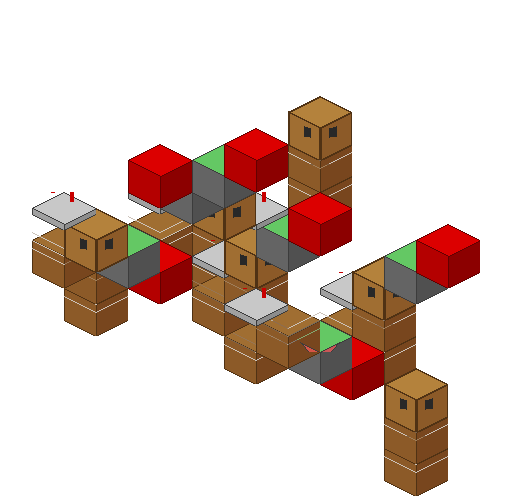
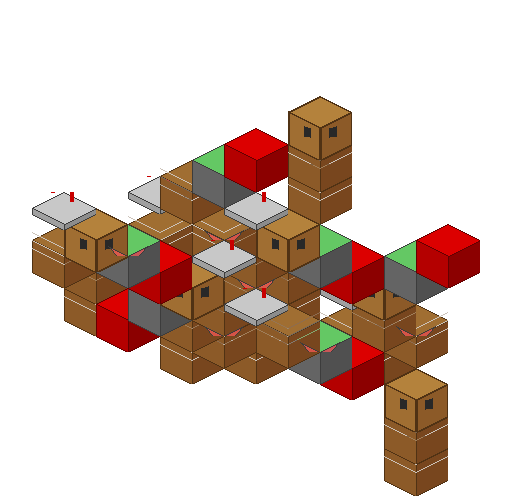
Fix NBT export crash and refactor branch shape logic
- Updated StructureGenerator's export_monolithic and export_multipart to properly instantiate CustomNBT objects, fixing the AttributeError crash during NBT generation.
- Renamed 'is_symmetric' variable to 'branch_shape' (I vs L) across app.py, StructureGenerator, Layout1, and Layout2 to better reflect the layout structure behavior.
- Adapted app.py testing tab and interface to support and visualize the new branch shape toggle logic natively.

diff --git a/app.py b/app.py
@@ -126,6 +126,7 @@ with tab2:
             f.write(uploaded_file_2.getbuffer())
 
         layout_type = st.selectbox("Select Structure Layout:", ["Layout2 (Compact Serpentine)", "Layout1 (Minecart)"])
+        branch_shape = st.selectbox("Forme des branches", ["I", "L"], help="Forme 'I' place des notes de chaque côté. Forme 'L' place les notes d'un seul côté.")
         export_mode = st.selectbox("Generation Mode:", ["Single Monolithic File", "Dynamic Multi-Part (Structure Blocks)"])
 
         st.subheader("Decoration Palette")
@@ -145,7 +146,8 @@ with tab2:
         palettes = {
             "floor": selected_floor,
             "flowers": selected_flowers,
-            "ceiling": selected_ceiling
+            "ceiling": selected_ceiling,
+            "branch_shape": branch_shape
         }
 
         if st.button("Generate NBT"):
@@ -251,78 +253,59 @@ with tab3:
         def make_notes(count):
             return [Note(random.randint(0, 24), random.randint(0, 5)) for _ in range(count)]
 
-        # Test 1: Dense Layout1
+        # Test 1: Layout 1 (Shape I)
         nbt1 = CustomNBT()
         l1 = Layout1Brick()
-        l1.build(notes_integer=make_notes(10), notes_half=make_notes(10))
+        l1.build(notes_integer=make_notes(10), notes_half=make_notes(10), branch_shape='I')
         l1.clean("minecraft:stone")
         l1.write_nbt(nbt1)
-        nbt1.write_file("output/debug/debug_layout1_dense.nbt")
+        nbt1.write_file("output/debug/debug_layout1_shape_I.nbt")
         if CAN_VISUALIZE:
-            render_data_to_image(l1.blocks, nbt1.nbtfile['palette'], "Layout 1 Dense", "output/debug_images/debug_layout1_dense.png")
-            export_topdown_grid(l1.blocks, nbt1.nbtfile['palette'], "Layout 1 Dense Grid", "output/debug_images/debug_layout1_dense_grid.csv", "output/debug_images/debug_layout1_dense_grid.png")
-        spawner_nbt.add_structure_block([test_index * 15, 0, 0], "debug_layout1_dense")
+            render_data_to_image(l1.blocks, nbt1.nbtfile['palette'], "Layout 1 (Shape I)", "output/debug_images/debug_layout1_shape_I.png")
+            export_topdown_grid(l1.blocks, nbt1.nbtfile['palette'], "Layout 1 (Shape I) Grid", "output/debug_images/debug_layout1_shape_I_grid.csv", "output/debug_images/debug_layout1_shape_I_grid.png")
+        spawner_nbt.add_structure_block([test_index * 15, 0, 0], "debug_layout1_shape_I")
         test_index += 1
 
-        # Test 2: Dense Layout2 (Base)
+        # Test 2: Layout 1 (Shape L)
         nbt2 = CustomNBT()
-        l2 = Layout2Brick()
-        l2.build(notes_integer=make_notes(10), notes_half=make_notes(10))
+        l2 = Layout1Brick()
+        l2.build(notes_integer=make_notes(10), notes_half=make_notes(10), branch_shape='L')
         l2.clean("minecraft:stone")
         l2.write_nbt(nbt2)
-        nbt2.write_file("output/debug/debug_layout2_dense.nbt")
+        nbt2.write_file("output/debug/debug_layout1_shape_L.nbt")
         if CAN_VISUALIZE:
-            render_data_to_image(l2.blocks, nbt2.nbtfile['palette'], "Layout 2 Dense", "output/debug_images/debug_layout2_dense.png")
-            export_topdown_grid(l2.blocks, nbt2.nbtfile['palette'], "Layout 2 Dense Grid", "output/debug_images/debug_layout2_dense_grid.csv", "output/debug_images/debug_layout2_dense_grid.png")
-        spawner_nbt.add_structure_block([test_index * 15, 0, 0], "debug_layout2_dense")
+            render_data_to_image(l2.blocks, nbt2.nbtfile['palette'], "Layout 1 (Shape L)", "output/debug_images/debug_layout1_shape_L.png")
+            export_topdown_grid(l2.blocks, nbt2.nbtfile['palette'], "Layout 1 (Shape L) Grid", "output/debug_images/debug_layout1_shape_L_grid.csv", "output/debug_images/debug_layout1_shape_L_grid.png")
+        spawner_nbt.add_structure_block([test_index * 15, 0, 0], "debug_layout1_shape_L")
         test_index += 1
 
-        # Test 3: Dense Layout2 (Symmetric)
-        # Symmetry is now an after-effect, so we just build and then rotate/flip manually
-        # to simulate the "Symmetric" version
+        # Test 3: Layout 2 (Shape I)
         nbt3 = CustomNBT()
         l3 = Layout2Brick()
-        l3.build(notes_integer=make_notes(10), notes_half=make_notes(10))
-        l3.flip()
+        l3.build(notes_integer=make_notes(10), notes_half=make_notes(10), branch_shape='I')
         l3.clean("minecraft:stone")
         l3.write_nbt(nbt3)
-        nbt3.write_file("output/debug/debug_layout2_dense_sym.nbt")
+        nbt3.write_file("output/debug/debug_layout2_shape_I.nbt")
         if CAN_VISUALIZE:
-            render_data_to_image(l3.blocks, nbt3.nbtfile['palette'], "Layout 2 Dense (Symmetric)", "output/debug_images/debug_layout2_dense_sym.png")
-            export_topdown_grid(l3.blocks, nbt3.nbtfile['palette'], "Layout 2 Dense Sym Grid", "output/debug_images/debug_layout2_dense_sym_grid.csv", "output/debug_images/debug_layout2_dense_sym_grid.png")
-        spawner_nbt.add_structure_block([test_index * 15, 0, 0], "debug_layout2_dense_sym")
+            render_data_to_image(l3.blocks, nbt3.nbtfile['palette'], "Layout 2 (Shape I)", "output/debug_images/debug_layout2_shape_I.png")
+            export_topdown_grid(l3.blocks, nbt3.nbtfile['palette'], "Layout 2 (Shape I) Grid", "output/debug_images/debug_layout2_shape_I_grid.csv", "output/debug_images/debug_layout2_shape_I_grid.png")
+        spawner_nbt.add_structure_block([test_index * 15, 0, 0], "debug_layout2_shape_I")
         test_index += 1
 
-        # Test 4: Layout2 Flipped
+        # Test 4: Layout 2 (Shape L)
         nbt4 = CustomNBT()
         l4 = Layout2Brick()
-        l4.build(notes_integer=make_notes(10), notes_half=make_notes(10))
-        l4.flip()
+        l4.build(notes_integer=make_notes(10), notes_half=make_notes(10), branch_shape='L')
         l4.clean("minecraft:stone")
         l4.write_nbt(nbt4)
-        nbt4.write_file("output/debug/debug_layout2_flipped.nbt")
+        nbt4.write_file("output/debug/debug_layout2_shape_L.nbt")
         if CAN_VISUALIZE:
-            render_data_to_image(l4.blocks, nbt4.nbtfile['palette'], "Layout 2 Flipped", "output/debug_images/debug_layout2_flipped.png")
-            export_topdown_grid(l4.blocks, nbt4.nbtfile['palette'], "Layout 2 Flipped Grid", "output/debug_images/debug_layout2_flipped_grid.csv", "output/debug_images/debug_layout2_flipped_grid.png")
-        spawner_nbt.add_structure_block([test_index * 15, 0, 0], "debug_layout2_flipped")
+            render_data_to_image(l4.blocks, nbt4.nbtfile['palette'], "Layout 2 (Shape L)", "output/debug_images/debug_layout2_shape_L.png")
+            export_topdown_grid(l4.blocks, nbt4.nbtfile['palette'], "Layout 2 (Shape L) Grid", "output/debug_images/debug_layout2_shape_L_grid.csv", "output/debug_images/debug_layout2_shape_L_grid.png")
+        spawner_nbt.add_structure_block([test_index * 15, 0, 0], "debug_layout2_shape_L")
         test_index += 1
 
-        # Test 5-8: Layout2 Rotations
-        for rot in range(1, 4):
-            nbt_rot = CustomNBT()
-            l_rot = Layout2Brick()
-            l_rot.build(notes_integer=make_notes(10), notes_half=make_notes(10))
-            l_rot.rotate(rot)
-            l_rot.clean("minecraft:stone")
-            l_rot.write_nbt(nbt_rot)
-            nbt_rot.write_file(f"output/debug/debug_layout2_rot{rot}.nbt")
-            if CAN_VISUALIZE:
-                render_data_to_image(l_rot.blocks, nbt_rot.nbtfile['palette'], f"Layout 2 Rotation {rot}", f"output/debug_images/debug_layout2_rot{rot}.png")
-                export_topdown_grid(l_rot.blocks, nbt_rot.nbtfile['palette'], f"Layout 2 Rot {rot} Grid", f"output/debug_images/debug_layout2_rot{rot}_grid.csv", f"output/debug_images/debug_layout2_rot{rot}_grid.png")
-            spawner_nbt.add_structure_block([test_index * 15, 0, 0], f"debug_layout2_rot{rot}")
-            test_index += 1
-
-        # Test 9: Complete Serpentine Assembly
+        # Test 5: Complete Serpentine Assembly
         # Creates a 10-tick sequence to test StructureGenerator's automatic snake routing
         data_seq = {
             'tick': list(range(0, 20, 2)),
@@ -332,7 +315,7 @@ with tab3:
         df_seq = pd.DataFrame(data_seq).set_index('tick')
 
         nbt_seq = CustomNBT()
-        gen_seq = StructureGenerator(df_seq, layout_type="Layout2")
+        gen_seq = StructureGenerator(df_seq, layout_type="Layout2", palettes={"branch_shape": "L"})
         gen_seq.generate_blocks()
 
         # We manually clean here with a stone block fallback to ensure tests are stable
@@ -350,4 +333,4 @@ with tab3:
         spawner_nbt.add_block([-1, 1, 0], index_button)
         spawner_nbt.write_file("output/debug/debug_spawner.nbt")
 
-        st.success(f"Successfully generated 9 complex test bricks and 1 assembly sequence in `output/debug/`")
+        st.success(f"Successfully generated 4 shape test bricks and 1 assembly sequence in `output/debug/`")

diff --git a/core/Layout2.py b/core/Layout2.py
@@ -10,7 +10,7 @@ class Layout2Brick(LayoutBase):
     def __init__(self, x=0, y=0, z=0, facing='south', direction=-1):
         super().__init__(x=x, y=y, z=z, facing=facing, direction=direction)
         
-    def build(self, notes_integer=None, notes_half=None, delay=1, is_symmetric=True):
+    def build(self, notes_integer=None, notes_half=None, delay=1, branch_shape='I'):
         """
         Adds a segment of the song (one or more ticks) to the layout.
 
@@ -33,20 +33,18 @@ class Layout2Brick(LayoutBase):
         # Repeater connecting to the previous block (now positioned within the brick_int itself)
         brick_int.add_block(0, 0, 0, "minecraft:repeater", {"facing": "west", "delay": delay}, tick=self.tick, needs_down=True)
 
+        # The connecting redstone wire for the serpentine pattern
+        # Since the serpentine ALWAYS connects to the back via [1,0,-1], we MUST put a redstone wire here
+        # or the repeater won't turn the corner.
+        brick_int.add_block(1, 0, -1, "minecraft:redstone_wire", tick=self.tick, needs_down=True)
+
         if integer_note_count == 0:
             brick_int.add_block(1, 0, 0, "minecraft:oak_planks")
         else:
             self.add_note_to_brick(brick_int, 1, 0, 0, notes_integer[0])
 
-        if integer_note_count > 1 or half_note_count > 0:
-            # We add redstone to propagate signal sideways
-            if is_symmetric:
-                brick_int.add_block(1, 0, -1, "minecraft:redstone_wire", tick=self.tick, needs_down=True)
-            else:
-                brick_int.add_block(1, 0, 1, "minecraft:redstone_wire", tick=self.tick, needs_down=True)
-
-        # Redstone side notes
-        if is_symmetric:
+        if branch_shape == 'I':
+            # "I" Shape (Symmetrical): Notes placed on both +z and -z
             if half_note_count == 0 and integer_note_count <= 5:
                 if integer_note_count >= 2:
                     self.add_note_to_brick(brick_int, 1, 0, 1, notes_integer[1])
@@ -70,6 +68,10 @@ class Layout2Brick(LayoutBase):
                 if integer_note_count >= 3:
                     self.add_note_to_brick(brick_int, 0, -1, -1, notes_integer[2])
         else:
+            # "L" Shape: Notes placed ONLY on the +z side
+            if integer_note_count > 1 or half_note_count > 0:
+                brick_int.add_block(1, 0, 1, "minecraft:redstone_wire", tick=self.tick, needs_down=True)
+
             if integer_note_count >= 2:
                 self.add_note_to_brick(brick_int, 2, 0, 0, notes_integer[1])
             if integer_note_count >= 3:
@@ -78,7 +80,6 @@ class Layout2Brick(LayoutBase):
                 self.add_note_to_brick(brick_int, 2, -1, 1, notes_integer[3])
 
         # Piston side logic (half ticks) - rotated parts
-        # If is_symmetric is False, we flip the internal logic of half_notes so it builds on the +z side
         sub_brick_half = Brick()
 
         if notes_half is not None:
@@ -140,7 +141,7 @@ class Layout2Brick(LayoutBase):
 
         sub_brick_half.translate(1, 0, 0)
 
-        if not is_symmetric:
+        if branch_shape == 'L':
             sub_brick_half.flip(axis='z')
 
         brick_half.add_data(sub_brick_half)
@@ -152,9 +153,9 @@ class Layout2Track(Brick):
     """
     Manages a sequence of Layout2Bricks, assembling them into a continuous serpentine layout.
     """
-    def __init__(self, is_symmetric=True):
+    def __init__(self, branch_shape='I'):
         super().__init__()
-        self.is_symmetric = is_symmetric
+        self.branch_shape = branch_shape
 
     def build_sequence(self, df_notes):
         """Processes notes and maps them to a serpentine sequence of bricks."""
@@ -178,7 +179,7 @@ class Layout2Track(Brick):
 
             # Serpentine logic
             # Repeater is now built-in inside brick_int based on the delay provided
-            brick.build(notes_entier, notes_demi, delay=actual_delay, is_symmetric=self.is_symmetric)
+            brick.build(notes_entier, notes_demi, delay=actual_delay, branch_shape=self.branch_shape)
 
             if direction % 4 == 0:
                 pos[0] += 1
@@ -189,12 +190,10 @@ class Layout2Track(Brick):
                 pos[0] += 2
                 pos[2] += -1
             elif direction % 4 == 2:
-                brick.flip(axis='x')
-                brick.flip(axis='z')
+                brick.flip(axis='z') # Just flip z, do not flip x (original behavior)
                 pos[0] += 1
                 pos[2] += 2
             else:
-                brick.flip(axis='x')
                 brick.rotate(1)
                 pos[0] += 2
                 pos[2] += 1

diff --git a/core/Layout1.py b/core/Layout1.py
@@ -29,7 +29,7 @@ class Layout1Brick(LayoutBase):
     def __init__(self, start_x=0, start_y=0, start_z=0):
         super().__init__(x=start_x, y=start_y, z=start_z)
 
-    def build(self, notes_integer=None, notes_half=None, delay=1, is_symmetric=True):
+    def build(self, notes_integer=None, notes_half=None, delay=1, branch_shape='I'):
         """
         Builds a single tick's worth of blocks for the straight layout.
         Notes branch off sideways from the central block.
@@ -50,13 +50,13 @@ class Layout1Brick(LayoutBase):
         brick_int.add_block(1, 0, 0, "minecraft:repeater", {"facing": "west", "delay": delay}, tick=self.tick, needs_down=True)
 
         # Place notes branching off to the sides (z-axis)
-        if is_symmetric:
+        if branch_shape == 'I':
             for i in range(integer_note_count):
                 side = 1 if i % 2 == 0 else -1
                 depth = (i // 2) + 1
                 brick_int.add_block(0, 0, depth * side, "minecraft:redstone_wire", tick=self.tick, needs_down=True)
                 self.add_note_to_brick(brick_int, -1, 0, depth * side, notes_integer[i])
-        else:
+        else: # 'L' shape
             for i in range(integer_note_count):
                 z_pos = i + 1
                 brick_int.add_block(0, 0, z_pos, "minecraft:redstone_wire", tick=self.tick, needs_down=True)
@@ -68,13 +68,13 @@ class Layout1Brick(LayoutBase):
             brick_half.add_block(0, 1, 0, "minecraft:sticky_piston", {"facing": "east"}, tick=self.tick)
             brick_half.add_block(1, 1, 0, "minecraft:redstone_block", tick=self.tick)
 
-            if is_symmetric:
+            if branch_shape == 'I':
                 for i in range(half_note_count):
                     side = 1 if i % 2 == 0 else -1
                     depth = (i // 2) + 1
                     brick_half.add_block(1, 1, depth * side, "minecraft:redstone_wire", tick=self.tick, needs_down=True)
                     self.add_note_to_brick(brick_half, 2, 1, depth * side, notes_half[i])
-            else:
+            else: # 'L' shape
                 for i in range(half_note_count):
                     z_pos = i + 1
                     brick_half.add_block(1, 1, z_pos, "minecraft:redstone_wire", tick=self.tick, needs_down=True)
@@ -89,9 +89,9 @@ class Layout1Track(Brick):
     """
     Manages a sequence of Layout1Bricks, assembling them into a continuous straight line.
     """
-    def __init__(self, is_symmetric=True):
+    def __init__(self, branch_shape='I'):
         super().__init__()
-        self.is_symmetric = is_symmetric
+        self.branch_shape = branch_shape
 
     def build_sequence(self, df_notes):
         """Processes notes and maps them to a continuous straight line of bricks."""
@@ -110,7 +110,7 @@ class Layout1Track(Brick):
             notes_demi = df_notes.loc[tick]['note demi']
 
             # Build the brick (includes the repeater now)
-            brick.build(notes_entier, notes_demi, delay=actual_delay, is_symmetric=self.is_symmetric)
+            brick.build(notes_entier, notes_demi, delay=actual_delay, branch_shape=self.branch_shape)
 
             # Build the parallel minecart track
             minecart = MinecartBrick()

diff --git a/core/StructureGenerator.py b/core/StructureGenerator.py
@@ -17,15 +17,19 @@ class StructureGenerator:
 
     def generate_blocks(self):
         """Processes notes and maps them to a global Brick structure using the selected layout track."""
-        # Check if symmetric configuration is requested in palettes
-        is_symmetric = True
+        # Check if branch shape configuration is requested in palettes ('I' or 'L')
+        branch_shape = 'I'
+        if self.palettes and 'branch_shape' in self.palettes:
+            branch_shape = self.palettes['branch_shape']
+
+        # For backward compatibility, translate boolean 'is_symmetric' if it exists
         if self.palettes and 'is_symmetric' in self.palettes:
-            is_symmetric = self.palettes['is_symmetric']
+             branch_shape = 'I' if self.palettes['is_symmetric'] else 'L'
 
         if "Layout1" in self.layout_type:
-            track = Layout1Track(is_symmetric=is_symmetric)
+            track = Layout1Track(branch_shape=branch_shape)
         else:
-            track = Layout2Track(is_symmetric=is_symmetric)
+            track = Layout2Track(branch_shape=branch_shape)
 
         track.build_sequence(self.df_notes)
         self.global_data = track
